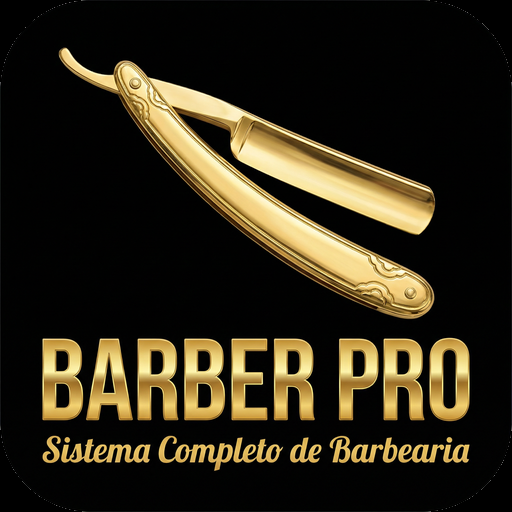
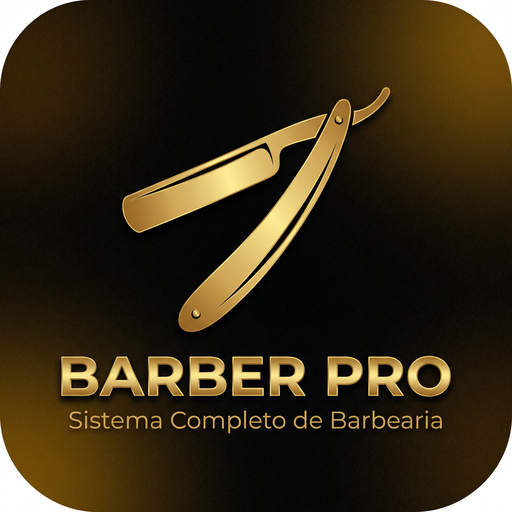
Checkpoint: Novo ícone do Barber Pro com fundo preto-dourado degradê: centro escuro e cantos com gradiente dourado quente, navalha dourada grande centralizada, texto BARBER PRO e subtítulo. Os cantos dourados fazem a transição parecer intencional e premium, eliminando o problema visual dos cantos es

diff --git a/app.config.ts b/app.config.ts
@@ -9,7 +9,7 @@ const schemeFromBundleId = `manus${timestamp}`;
 const env = {
   appName: "Barber Pro",
   appSlug: "barber_app",
-  logoUrl: "https://files.manuscdn.com/user_upload_by_module/session_file/310419663028442847/FgpHiLApsPbUWFQS.png",
+  logoUrl: "https://files.manuscdn.com/user_upload_by_module/session_file/310419663028442847/vcFQXqOFnToKgyUB.png",
   scheme: schemeFromBundleId,
   iosBundleId: bundleId,
   androidPackage: bundleId,
